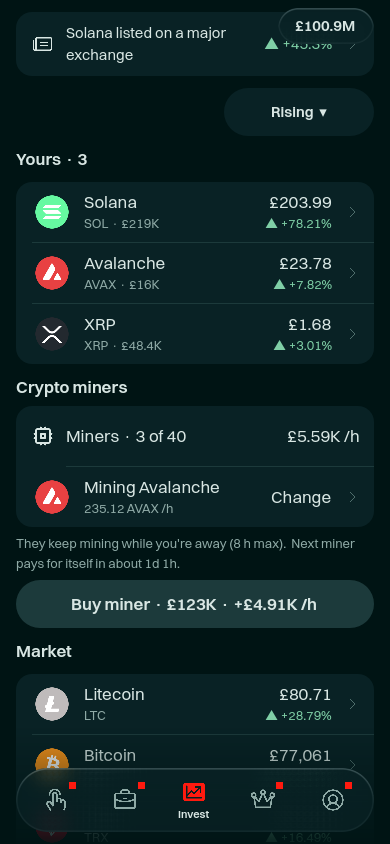
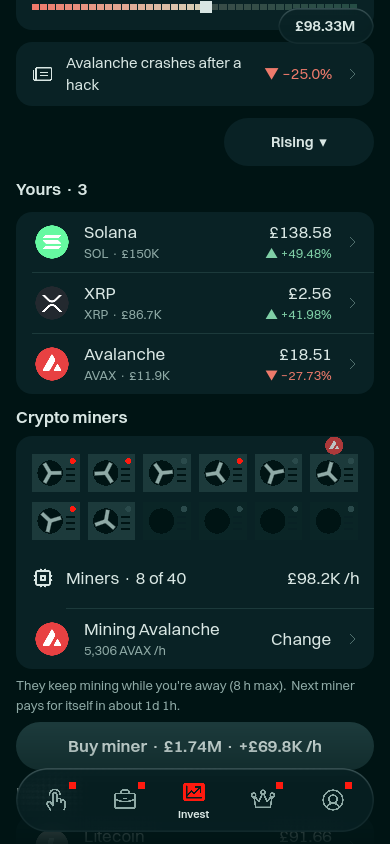
Trade pop-up: live numbers, exact typed amounts, keyboard lift, Lock
- Numbers refresh while the pop-up is open; a typed amount stays fixed in
  pounds and the button trades exactly what it shows.
- Tapping the amount box selects the old amount; the sheet lifts above
  the phone keyboard while typing.
- Lock now uses the same pop-up (any amount, not just half or all).
- Miner rack: redraws on changes with Less motion, clipped to its card,
  shows the coin actually being mined. Fresh README picture.
- Tests: typing £500 buys £500 with cash arriving; the box isn't rewritten
  while typing; Lock locks the amount shown.

Claude-Session: https://claude.ai/code/session_01G43aEuqkjUy83khniNYyKE

diff --git a/docs/TESTING.md b/docs/TESTING.md
@@ -16,7 +16,7 @@ Run them yourself first. A release with a failing test is never pushed.
 | Rules | `python3 tools/check_rules.py` (repo root) | R1 to R11 in CLAUDE.md | 1 s |
 | Smoke | `$G --headless --path . -s res://tests/smoke_test.gd` | Every system, every page builds, saves, migrations, exploits, update flow, storage limits | 15 s |
 | Stress | `$G --headless --path . -s res://tests/stress_test.gd` | Spam buying, odd input, clock going backwards, a year away, huge numbers | 10 s |
-| Touch | see below | Scrolling over buttons, wobbly taps, chart drags, sheets | 20 s |
+| Touch | see below | Scrolling over buttons, wobbly taps, chart drags, sheets, the trade slider, typing an amount, the Lock sheet | 20 s |
 | Pacing | see BALANCE.md | Days to each milestone | 5 min |
 | Screenshots | see below | How every page looks | 1 min |
 
@@ -37,6 +37,7 @@ Screenshots of a mid-game save, every tab, sheets and popups:
 xvfb-run -a -s "-screen 0 1280x1024x24" $G --path . --rendering-driver opengl3 \
   --resolution 390x844 -s res://tests/screenshot.gd -- /some/output/folder
 ```
+Trade pop-ups are shots 09e (sell), 09f (convert), 09g (buy) and 09h (lock); 31 shows the miner rack.
 README pictures live in `docs/screenshots/` and come from this run (01_earn, 03_taxi, 06_invest_shares, 31_crypto_mining, 09c_share, 13_profile). Copy fresh ones in when those screens change.
 
 Lines saying `Identifier not found: Game` at the start are harmless (scripts compiling before the autoloads load).

diff --git a/docs/DESIGN.md b/docs/DESIGN.md
@@ -65,7 +65,7 @@ Rules:
 | Company or coin mark | `AssetTile` (`asset_tile.gd`): coins show their real logo (`assets/coins`, CC0); shares a sector shape with the company initial cut in |
 | Tabs inside a page | `Segmented` |
 | Bottom sheet, alert, toast | `Kit.sheet()`, `Kit.alert()`, `Kit.toast()` |
-| Buy / sell / convert amounts | `TradeSheet` (`trade_sheet.gd`): what you own, a big live amount, a thick slider with quarter snaps, 25/50/75/Max chips, an £ amount box, "After:" line, one confirm button |
+| Buy / sell / convert / lock amounts | `TradeSheet` (`trade_sheet.gd`): what you own, a big live amount, a thick slider with quarter snaps, 25/50/75/Max chips, an £ amount box, "After:" line, one confirm button |
 | Miners at work | `MinerRack` (`miner_rack.gd`): machines with spinning fans, blinking lights and coins rising; still with Less motion |
 | Celebration | `Kit.celebrate()` (never blocks taps, leaves by itself) |
 | Count-up number | `CountLabel` |

diff --git a/CHANGELOG.md b/CHANGELOG.md
@@ -9,6 +9,10 @@
   logos). Same small fee as selling.
 - Crypto miners: a little rack of machines with spinning fans, blinking
   lights and coins floating up.
+- Lock uses the same pop-up, so you can lock any amount, not just half or all.
+- The numbers stay live while the pop-up is open. A typed amount stays put,
+  and the button always trades exactly what it shows. Tapping the box
+  selects the old amount, and the pop-up moves up above the phone keyboard.
 
 ## Claim your rewards
 
